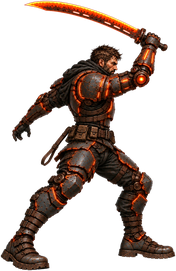
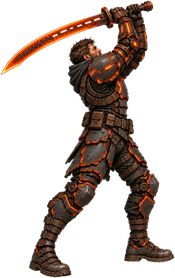
Last pose drawings: the Gunner climbing, the Swordsman's overhead slash
Claude-Session: https://claude.ai/code/session_01DbbAxgCR2CT7iqKnVBrHPT

diff --git a/coop-platformer/tools/sprites.py b/coop-platformer/tools/sprites.py
@@ -260,12 +260,13 @@ POSE_SOURCES = {
     "gunner_crouch": [("gunner_crouch", None)],
     "gunner_kick": [("gunner_kick", None)],
     "gunner_wall": [("gunner_wall", (0, 0, 926, 1536))],
+    "gunner_climb": [("gunner_climb", (0, 0, 724, 1086), 1.12), ("gunner_climb", (724, 0, 1448, 1086), 1.12)],
     "swordsman_crouch": [("swordsman_crouch", (0, 880, 1024, 1536), (0, 0, 1024, 875))],
     "swordsman_block": [("swordsman_block", None)],
     "swordsman_slash_down": [("swordsman_slash_down", None)],
     "swordsman_slash_rising": [("swordsman_slash_rising", None)],
     "swordsman_slash_finisher": [("swordsman_finisher_a", None), ("swordsman_finisher_b", None)],
-    "swordsman_slash_overhead": [("swordsman_slash_rising", None)],
+    "swordsman_slash_overhead": [("swordsman_slash_overhead", None)],
     "swordsman_wall": [("swordsman_wall", (0, 0, 874, 1536))],
     # Back view with a hand raised above the head.
     "swordsman_climb": [("swordsman_climb", (0, 0, 724, 1086), 1.12), ("swordsman_climb", (724, 0, 1448, 1086), 1.12)],

diff --git a/coop-platformer/ART_WORLD1.md b/coop-platformer/ART_WORLD1.md
@@ -79,9 +79,7 @@ white background, nothing cropped, no motion lines, no effects. Pose: ...
 Если ChatGPT всё равно рисует лестницу, допиши: `If you draw a ladder, make it pure flat bright green (#00FF00).`
 Стену в позе у стены рисовать можно (справа) — её я отрезаю.
 
-Готово: стрелок — присед, пинок, стена; мечник — присед, блок, три удара серии (добивающий из двух кадров),
-стена, лестница (удар вверх пока использует рисунок восходящего удара).
-Ещё нужно: `gunner_climb_1/2` (без лестницы!) и, по желанию, `swordsman_slash_overhead_1`.
+Готово: все позы обоих героев.
 
 ---
 
